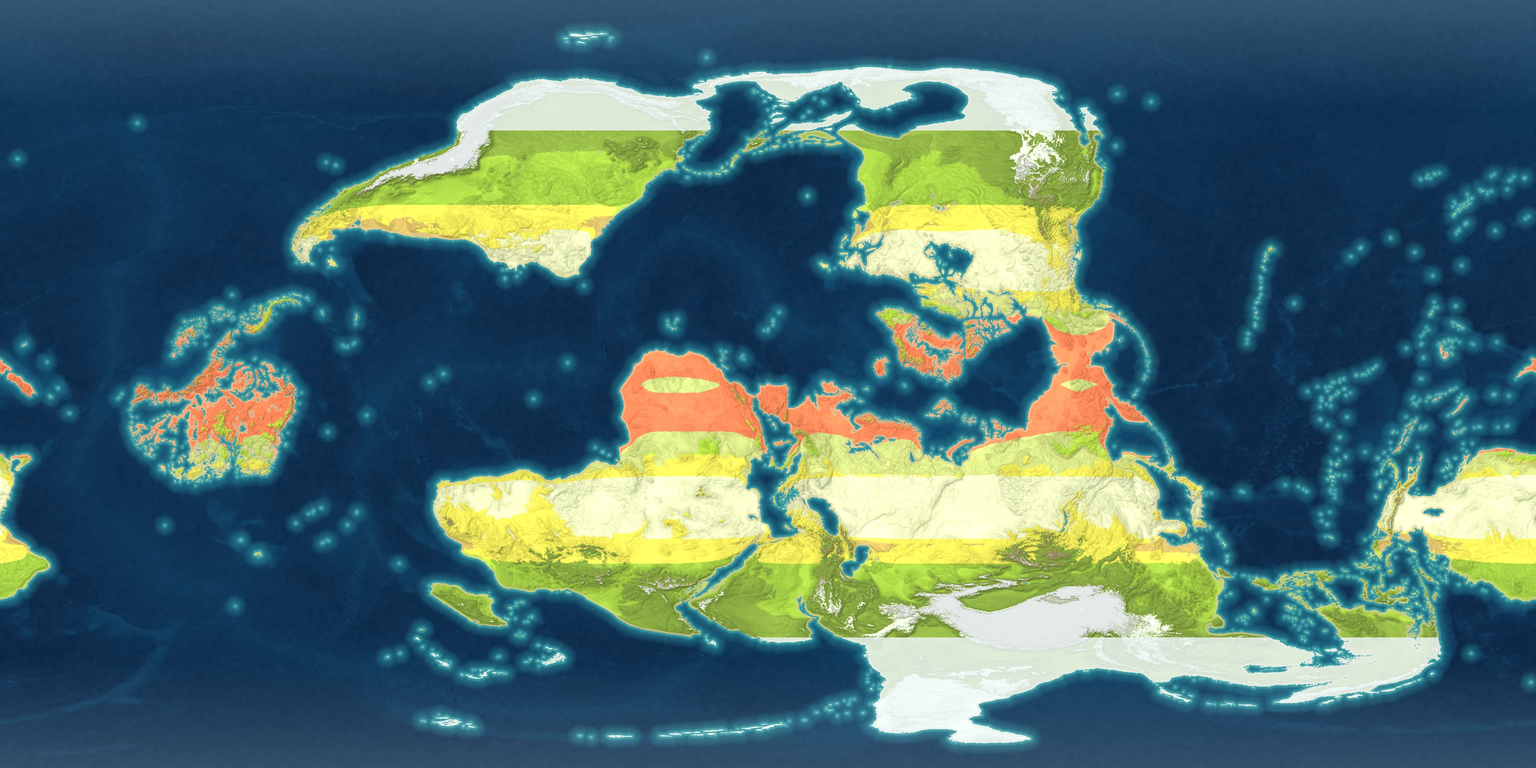
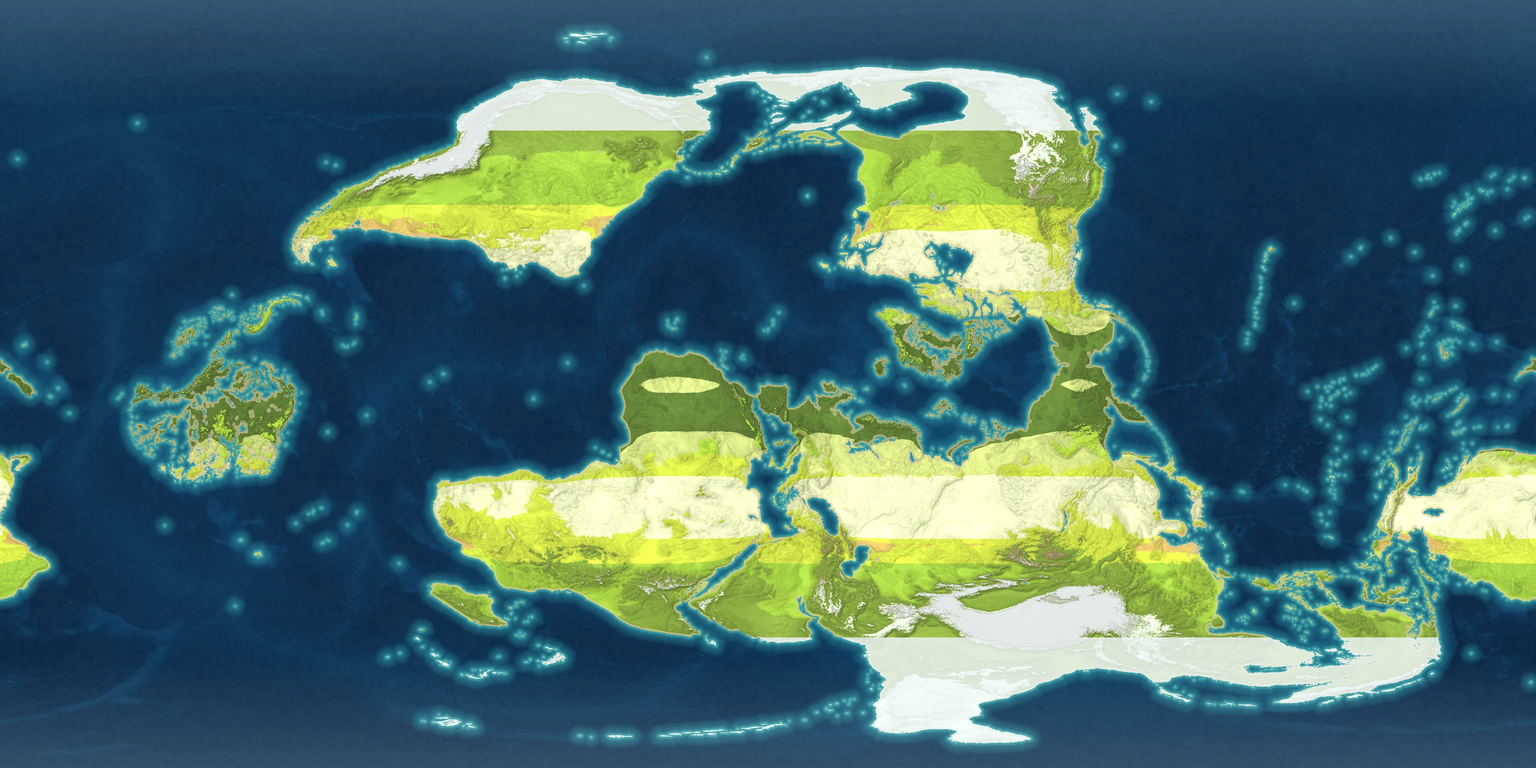
tune: rebalance faux-satellite biome colors

diff --git a/scripts/generate_faux_satellite_map.py b/scripts/generate_faux_satellite_map.py
@@ -88,6 +88,16 @@ def main() -> None:
 
     land_rgb = biome.copy()
 
+    # Reinterpret a few stylized biome source colors into more satellite-like surface tones.
+    rainforest_mask = landmask & (biome[..., 0] > 0.78) & (biome[..., 1] < 0.56) & (biome[..., 2] < 0.46)
+    grassland_mask = landmask & (biome[..., 0] > 0.84) & (biome[..., 1] > 0.72) & (biome[..., 2] < 0.46)
+
+    rainforest_color = np.array([0.12, 0.34, 0.16], dtype=np.float32)
+    grassland_color = np.array([0.70, 0.74, 0.24], dtype=np.float32)
+
+    land_rgb[rainforest_mask] = land_rgb[rainforest_mask] * 0.18 + rainforest_color * 0.82
+    land_rgb[grassland_mask] = land_rgb[grassland_mask] * 0.28 + grassland_color * 0.72
+
     vegetation_boost = np.stack(
         (
             0.04 + 0.10 * moisture,
